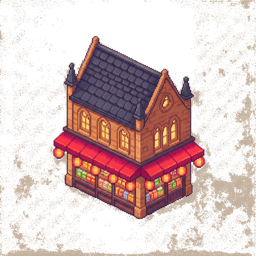
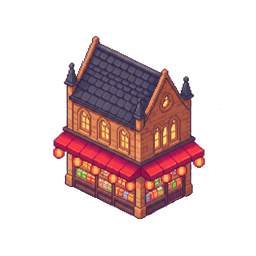
fix: knock out solid backgrounds on Oxford town/work/market sprites
Some sprites ignore the magenta screen and come back on a flat neutral
background that the magenta key cannot remove. Add knockout-flood.py: a
tolerance-bounded corner flood-fill that strips a uniform solid background and
stops at the building outline (no over-eating). Re-cleaned the 3 affected Oxford
buildings and chained the flood pass into gen-city-buildings.mjs so the other
cities clean up automatically.

diff --git a/scripts/knockout-flood.py b/scripts/knockout-flood.py
@@ -1,0 +1,82 @@
+#!/usr/bin/env python3
+"""Knock out a UNIFORM solid background by flood-filling from the four corners.
+
+Some generated sprites ignore the magenta screen and come back on a flat neutral
+(beige/grey) background that the magenta chroma key cannot touch. This does a
+tolerance-bounded flood fill seeded from the corners: it removes the connected
+background region and stops at the building's darker outline, so it does not
+over-eat the object the way a global colour match would.
+
+Only acts when the corners are actually opaque (so it is safe to run on every
+sprite: already-transparent ones are left alone). A light edge despill softens
+the fringe left where the fill meets the object.
+
+Usage: knockout-flood.py file ...
+"""
+import sys
+from collections import deque
+from PIL import Image
+
+TOL = 50          # max RGB channel-sum distance from the seed to count as background
+EDGE_DESPILL = 28 # near-background fringe pixels get alpha trimmed
+
+
+def corner_opaque(px, w, h):
+    # >5 so a faint leftover haze (alpha ~10) still seeds the fill, while a clean
+    # corner (alpha 0) is left alone.
+    pts = [(2, 2), (w - 3, 2), (2, h - 3), (w - 3, h - 3)]
+    op = [px[x, y] for (x, y) in pts if px[x, y][3] > 5]
+    return op
+
+
+def knock(path):
+    im = Image.open(path).convert("RGBA")
+    w, h = im.size
+    px = im.load()
+    op = corner_opaque(px, w, h)
+    if len(op) < 2:
+        return 0  # corners already transparent -> nothing solid to remove
+
+    # seed colour = average of the opaque corners
+    sr = sum(c[0] for c in op) // len(op)
+    sg = sum(c[1] for c in op) // len(op)
+    sb = sum(c[2] for c in op) // len(op)
+
+    def dist(c):
+        return abs(c[0] - sr) + abs(c[1] - sg) + abs(c[2] - sb)
+
+    seen = bytearray(w * h)
+    q = deque()
+    for (x, y) in [(0, 0), (w - 1, 0), (0, h - 1), (w - 1, h - 1)]:
+        q.append((x, y))
+    cleared = 0
+    while q:
+        x, y = q.popleft()
+        if x < 0 or y < 0 or x >= w or y >= h:
+            continue
+        i = y * w + x
+        if seen[i]:
+            continue
+        seen[i] = 1
+        c = px[x, y]
+        if c[3] == 0:
+            # already transparent: keep crossing it so the fill spans cleared gaps
+            q.extend(((x + 1, y), (x - 1, y), (x, y + 1), (x, y - 1)))
+            continue
+        if dist(c) <= TOL:
+            px[x, y] = (c[0], c[1], c[2], 0)
+            cleared += 1
+            q.extend(((x + 1, y), (x - 1, y), (x, y + 1), (x, y - 1)))
+        elif dist(c) <= TOL + EDGE_DESPILL:
+            # fringe pixel touching the background: half-trim its alpha
+            px[x, y] = (c[0], c[1], c[2], c[3] // 2)
+            q.extend(((x + 1, y), (x - 1, y), (x, y + 1), (x, y - 1)))
+
+    im.save(path)
+    return cleared
+
+
+if __name__ == "__main__":
+    for p in sys.argv[1:]:
+        n = knock(p)
+        print(f"{p}: cleared {n}")